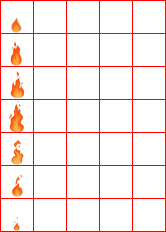
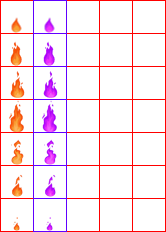
Improve agents

Changed region(s): [[0.1807, 0.0, 0.4217, 1.0]]

diff --git a/auroral/environment.py b/auroral/environment.py
@@ -54,7 +54,7 @@ def generate_level(n: int) -> tuple:
     add_element("3", 5, 8)
     add_element("w", 0, 6)
     add_element("t", 0, 20)
-    if uniform(0.0, 1.0) < 0.5:
+    if uniform(0.0, 1.0) < 0.99:
         add_element("d", 1, 1)
         add_element("k", 1, 1)
     if uniform(0.0, 1.0) < 0.3:
@@ -135,7 +135,7 @@ class Agent:
 class PlayerAgent(Agent):
     def __init__(self, properties):
         Agent.__init__(self, properties)
-        self.MAGIC_SPEED = 0.05
+        self.MAGIC_SPEED = 0.1
         self.speed = 6.0
         self.score = 0.0
         self.n_keys = 0
@@ -143,16 +143,16 @@ class PlayerAgent(Agent):
     def fire(self):
         if self.magic > 0.0:
             self.action = {"action": "fire", "direction": self.direction}
-            self.magic -= 0.25
+            self.magic -= 0.4
 
 
 class EnemyAgent(Agent):
     def __init__(self, properties):
         Agent.__init__(self, properties)
         self.MAGIC_SPEED = 0.05
-        self.speed = 3.0
-        self.direction_change_period = 1.0
-        self.shooting_timer = 0.0
+        self.speed = 2.0
+        self.direction_change_period = 1.5
+        self.shooting_timer = uniform(0.2, 2.0)
         self.timer = 0.0
         self.change_direction()
         self.last_position = self.position.copy()
@@ -169,15 +169,15 @@ class EnemyAgent(Agent):
 
     def update(self, delta: float):
         self.timer += delta
-        self.shooting_timer += delta
+        self.shooting_timer -= delta
         if self.timer > self.direction_change_period:
             self.timer = 0.0
             self.change_direction()
         if self.position == self.last_position:
             self.change_direction()
-        if self.shooting_timer > 1.6:
+        if self.shooting_timer < 0.0:
             self.fire()
-            self.shooting_timer = 0.0
+            self.shooting_timer = uniform(0.25, 2.5)
         Agent.update(self, delta)
         self.last_position = self.position.copy()
 
@@ -227,7 +227,7 @@ class Animation:
 
 
 TILES = (" ", "1", "2", "3", "w")
-OBJECTS = ("v", "h", "*", "k", "t", "d")
+OBJECTS = ("v", "h", "*", "k", "t", "d", "s")
 
 
 class Environment:
@@ -276,6 +276,9 @@ class Environment:
                     self.collisions[i][j] = 1
                 else:
                     self.collisions[i][j] = 2
+                # Water
+                if self.objects[i][j] == "w":
+                    self.collisions[i][j] = 1
                 # Bridges
                 if self.objects[i][j] in ("v", "h"):
                     self.collisions[i][j] = 0
@@ -333,6 +336,8 @@ class Environment:
         elif self.objects[y][x] == "k":
             self.get_player().n_keys += 1
             self.objects[y][x] = " "
+        elif self.objects[y][x] == "s":
+            self.player.health_points -= delta * 0.4
 
     def update_animations(self, delta: float):
         retained = []
@@ -383,7 +388,7 @@ class Environment:
                     agent.position.y += directions[index]
 
     def displace_agents(self, delta):
-        for name, agent in self.agents:
+        for _, agent in self.agents:
             agent.position += agent.direction * delta * agent.speed
             self.push_out(agent)
 
@@ -412,8 +417,12 @@ class Environment:
                 retained.append(self.projectiles[i])
             else:
                 p = self.projectiles[i].position
-                self.animations.append(Animation("flame", p))
-                self.burn(p)
+                if self.projectiles[i].name == "fire":
+                    self.animations.append(Animation("flame", p))
+                    self.burn(p, "fire")
+                elif self.projectiles[i].name == "fire2":
+                    self.animations.append(Animation("flame2", p))
+                    self.burn(p, "fire2")
         self.projectiles = retained
 
     def update_agents(self, delta):
@@ -433,12 +442,23 @@ class Environment:
             if agent != self.player:
                 distance = (agent.position - self.player.position).norm()
                 if distance < 1.0:
-                    self.player.health_points -= delta * 0.15
+                    self.player.health_points -= delta * 0.2
 
-    def burn(self, position):
-        for _, agent in self.agents:
+    def burn(self, position, explosion: str):
+        retained = []
+        for name, agent in self.agents:
             if (
                 abs(agent.position.x - position.x) < 1
                 and abs(agent.position.y - position.y) < 1
             ):
-                agent.health_points -= 0.4
+                if name == "player":
+                    if explosion == "fire":
+                        agent.health_points -= 0.05
+                    else:
+                        agent.health_points -= 0.4
+                else:
+                    if explosion == "fire":
+                        agent.health_points -= 0.51
+            if agent.health_points > 0.0:
+                retained.append((name, agent, ))
+        self.agents = retained

diff --git a/play.py b/play.py
@@ -22,8 +22,8 @@ dname = os.path.dirname(abspath)
 os.chdir(dname)
 
 parser = argparse.ArgumentParser(
-    prog='Auroal',
-    description='Launch the game'
+    prog="Auroal",
+    description="Launch the game."
 )
 parser.add_argument(
     "-d",
@@ -53,6 +53,7 @@ pygame.display.set_caption("Auroral")
 screen = pygame.display.set_mode(SCREEN_DIMENSIONS)
 
 ALL_LEVELS = [f for f in os.listdir("assets/levels") if f.endswith(".json")]
+ALL_THEMES = [f for f in os.listdir("assets/themes") if f.isnumeric()]
 
 
 def menu(level: int, theme: int) -> int:
@@ -88,20 +89,30 @@ def menu(level: int, theme: int) -> int:
                 exit()
             if event.type == pygame.KEYDOWN:
                 if event.key in (pygame.K_LEFT, pygame.K_a):
-                    level -= 1
-                    if level < 0:
-                        level = len(ALL_LEVELS)
+                    if focus == 0:
+                        level -= 1
+                        if level < 0:
+                            level = len(ALL_LEVELS)
+                    elif focus == 1:
+                        theme -= 1
+                        if theme < 0:
+                            theme = len(ALL_THEMES)
                 if event.key in (pygame.K_RIGHT, pygame.K_d):
-                    level += 1
-                    if level > len(ALL_LEVELS):
-                        level = 0
+                    if focus == 0:
+                        level += 1
+                        if level > len(ALL_LEVELS):
+                            level = 0
+                    elif focus == 1:
+                        theme += 1
+                        if theme > len(ALL_THEMES):
+                            theme = 1
                 if event.key in (pygame.K_DOWN, pygame.K_s):
                     focus += 1
-                    if level > 1:
+                    if focus > 1:
                         focus = 0
                 if event.key in (pygame.K_UP, pygame.K_w):
                     focus -= 1
-                    if level < 0:
+                    if focus < 0:
                         focus = 1
                 if event.key in (pygame.K_RETURN, ):
                     stop = True
@@ -142,6 +153,6 @@ while True:
     level, theme = menu(level, theme)
     if level is None:
         break
-    file = f"assets/levels/{ALL_LEVELS[level - 1]}" if level > 0 else ""
+    file = f"assets/levels/{level}.json" if level > 0 else ""
     score = game.play(screen, file, str(theme), DEBUG)
     display_score(screen, score)

diff --git a/auroral/renderer.py b/auroral/renderer.py
@@ -287,7 +287,7 @@ def render_isometric(env: environment.Environment,
                     )
             # Animations
             for a in env.animations:
-                p = a.position.y + a.position.x - 0.75
+                p = a.position.y + a.position.x - 1.0
                 if p <= diagonal and p + 1 > diagonal:
                     ix = resources["matches"]["animations"][a.name][1]
                     iy = resources["matches"]["animations"][a.name][0]
@@ -298,7 +298,7 @@ def render_isometric(env: environment.Environment,
                     screen.blit(
                         resources["images"]["animations"],
                         (x + x_o, y + y_o),
-                        (ix + 1, iy * AGENT_N + iy + 1, AGENT_N, AGENT_N)
+                        (ix * AGENT_N + ix + 1, iy * AGENT_N + iy + 1, AGENT_N, AGENT_N)
                     )
             # Indices
             row -= 1

diff --git a/assets/levels/readme.md b/assets/levels/readme.md
@@ -1,0 +1,16 @@
+# Levels
+
+This directory contains levels for the game. They can be used for training and testing.
+
+Test index:
+
+1. 10 X 10. Simplest level: reach the coin
+2. 10 X 10. Burn bushes to collect the coin
+3. 10 X 10. Unlock the door with the key
+4. 10 X 10. Go around the walls
+5. 10 X 10. Traverse the river
+6. 10 X 10. Collect three points
+7. 10 X 10. Avoid an enemy
+8. 10 X 10. Walk around lava
+9. 10 X 10. Integrative level. Combines bushes, a key, walls, multiple coins, an enemy, and lava.
+10. 20 X 20. Integrative level. Combines bushes, a key, walls, multiple coins, an enemy, and lava.
